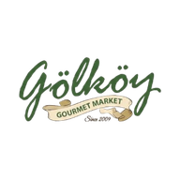
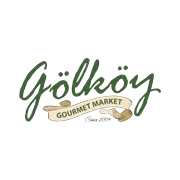
fix: React/beyaz kutu ikonlari kaldir, seffaf Golkoy Gurme koy.
Favicon ve marka ikonlari arka plansiz; site adi Golkoy Gurme; nginx icon cache kirildi.

Changed region(s): [[0.1111, 0.3056, 0.9167, 0.6944], [0.8333, 0.3889, 0.8611, 0.4167], [0.75, 0.3889, 0.7778, 0.4167]]

diff --git a/frontend/public/index.html b/frontend/public/index.html
@@ -4,13 +4,13 @@
     <meta charset="utf-8" />
     <meta name="google" content="notranslate" />
     <meta http-equiv="Content-Language" content="tr" />
-    <link rel="icon" type="image/png" sizes="48x48" href="%PUBLIC_URL%/images/favicon-48.png" />
-    <link rel="icon" type="image/png" sizes="96x96" href="%PUBLIC_URL%/images/favicon-96.png" />
-    <link rel="icon" type="image/png" sizes="32x32" href="%PUBLIC_URL%/images/favicon-32.png" />
-    <link rel="icon" type="image/png" sizes="192x192" href="%PUBLIC_URL%/images/favicon-192.png" />
-    <link rel="shortcut icon" href="%PUBLIC_URL%/images/favicon-48.png" />
-    <link rel="apple-touch-icon" href="%PUBLIC_URL%/images/apple-touch-icon.png" />
-    <link rel="icon" href="%PUBLIC_URL%/favicon.ico?v=2" sizes="any" />
+    <link rel="icon" type="image/png" sizes="48x48" href="%PUBLIC_URL%/images/favicon-48.png?v=3" />
+    <link rel="icon" type="image/png" sizes="96x96" href="%PUBLIC_URL%/images/favicon-96.png?v=3" />
+    <link rel="icon" type="image/png" sizes="32x32" href="%PUBLIC_URL%/images/favicon-32.png?v=3" />
+    <link rel="icon" type="image/png" sizes="192x192" href="%PUBLIC_URL%/images/favicon-192.png?v=3" />
+    <link rel="shortcut icon" href="%PUBLIC_URL%/images/favicon-48.png?v=3" />
+    <link rel="apple-touch-icon" href="%PUBLIC_URL%/images/apple-touch-icon.png?v=3" />
+    <link rel="icon" href="%PUBLIC_URL%/favicon.ico?v=3" sizes="any" />
     <meta name="viewport" content="width=device-width, initial-scale=1" />
     <meta name="theme-color" content="#2d5a3d" />
     <meta
@@ -18,14 +18,16 @@
       content="2009'dan beri Bodrum'un sofrasına taze, doğal ve özenle seçilmiş lezzetler. Sipariş verin; Gölköy Gurme kapınıza gelsin."
     />
     <meta property="og:type" content="website" />
-    <meta property="og:site_name" content="Gölköy Gurme Market" />
-    <meta property="og:title" content="Gölköy Gurme Market — Taze ve Doğal Ürünler" />
+    <meta property="og:site_name" content="Gölköy Gurme" />
+    <meta property="og:title" content="Gölköy Gurme — Taze ve Doğal Ürünler" />
     <meta
       property="og:description"
       content="2009'dan beri Bodrum'un sofrasına taze, doğal ve özenle seçilmiş lezzetler. Sipariş verin; Gölköy Gurme kapınıza gelsin."
     />
-    <meta property="og:image" content="https://golkoygurme.com.tr/images/og-default.jpg" />
-    <meta name="twitter:card" content="summary_large_image" />
+    <meta property="og:image" content="https://golkoygurme.com.tr/images/golkoy-header-logo.png" />
+    <meta name="twitter:card" content="summary" />
+    <meta name="twitter:title" content="Gölköy Gurme" />
+    <meta name="twitter:image" content="https://golkoygurme.com.tr/images/golkoy-header-logo.png" />
     <link
       rel="stylesheet"
       href="https://cdnjs.cloudflare.com/ajax/libs/font-awesome/6.4.0/css/all.min.css"
@@ -37,20 +39,10 @@
       rel="stylesheet"
     />
     <link rel="manifest" href="%PUBLIC_URL%/manifest.json" />
-    <title>Gölköy Gurme Market — Taze ve Doğal Ürünler</title>
+    <title>Gölköy Gurme</title>
   </head>
   <body>
     <noscript>You need to enable JavaScript to run this app.</noscript>
     <div id="root"></div>
-    <!--
-      This HTML file is a template.
-      If you open it directly in the browser, you will see an empty page.
-
-      You can add webfonts, meta tags, or analytics to this file.
-      The build step will place the bundled scripts into the <body> tag.
-
-      To begin the development, run `npm start` or `yarn start`.
-      To create a production bundle, use `npm run build` or `yarn build`.
-    -->
   </body>
 </html>

diff --git a/frontend/src/pages/Home.js b/frontend/src/pages/Home.js
@@ -431,14 +431,14 @@ export default function Home() {
     <div style={{ maxWidth: "1200px", margin: "0 auto", padding: "16px" }}>
       {/* SEO Helmet */}
       <Helmet>
-        <title>Gölköy Gurme Market — Taze ve Doğal Ürünler</title>
+        <title>Gölköy Gurme</title>
         <meta
           name="description"
           content="2009'dan beri Bodrum'un sofrasına taze, doğal ve özenle seçilmiş lezzetler. Sipariş verin; Gölköy Gurme kapınıza gelsin."
         />
         <meta
           property="og:title"
-          content="Gölköy Gurme Market — Taze ve Doğal Ürünler"
+          content="Gölköy Gurme"
         />
         <meta
           property="og:description"
@@ -446,7 +446,7 @@ export default function Home() {
         />
         <meta
           property="og:image"
-          content={`${siteUrl}/images/og-default.jpg`}
+          content={`${siteUrl}/images/golkoy-header-logo.png`}
         />
         <link
           rel="canonical"

diff --git a/frontend/scripts/generate-favicon.py b/frontend/scripts/generate-favicon.py
@@ -4,49 +4,39 @@ from pathlib import Path
 public = Path(__file__).resolve().parents[1] / "public"
 images = public / "images"
 
-src = Image.open(images / "golkoy-logo-new.png").convert("RGBA")
-pixels = src.load()
-w, h = src.size
-minx, miny, maxx, maxy = w, h, 0, 0
-for y in range(h):
-    for x in range(w):
-        r, g, b, a = pixels[x, y]
-        if a < 20:
-            continue
-        if r < 20 and g < 20 and b < 20:
-            continue
-        minx = min(minx, x)
-        miny = min(miny, y)
-        maxx = max(maxx, x)
-        maxy = max(maxy, y)
+src = Image.open(images / "golkoy-header-logo.png").convert("RGBA")
 
-pad = 8
-cropped = src.crop(
-    (max(0, minx - pad), max(0, miny - pad), min(w, maxx + 1 + pad), min(h, maxy + 1 + pad))
-)
-cropped.save(images / "golkoy-header-logo.png", format="PNG", optimize=True)
 
-cw, ch = cropped.size
-side = max(cw, ch)
-pad2 = int(side * 0.12)
-canvas = Image.new("RGBA", (side + pad2 * 2, side + pad2 * 2), (0, 0, 0, 0))
-canvas.paste(cropped, (pad2 + (side - cw) // 2, pad2 + (side - ch) // 2), cropped)
+def make_square(size, pad_ratio=0.08):
+    canvas = Image.new("RGBA", (size, size), (0, 0, 0, 0))
+    margin = max(1, int(size * pad_ratio))
+    max_w = size - 2 * margin
+    max_h = size - 2 * margin
+    ratio = min(max_w / src.width, max_h / src.height)
+    nw = max(1, int(src.width * ratio))
+    nh = max(1, int(src.height * ratio))
+    logo = src.resize((nw, nh), Image.Resampling.LANCZOS)
+    canvas.paste(logo, ((size - nw) // 2, (size - nh) // 2), logo)
+    return canvas
 
-for name, size in [("logo192.png", 192), ("logo512.png", 512)]:
-    canvas.resize((size, size), Image.Resampling.LANCZOS).save(
-        public / name, format="PNG", optimize=True
-    )
 
-canvas.resize((32, 32), Image.Resampling.LANCZOS).save(
-    images / "favicon-32.png", format="PNG", optimize=True
-)
-canvas.resize((180, 180), Image.Resampling.LANCZOS).save(
-    images / "apple-touch-icon.png", format="PNG", optimize=True
-)
-canvas.save(images / "golkoy-favicon.png", format="PNG", optimize=True)
+for size, name in [
+    (32, "favicon-32.png"),
+    (48, "favicon-48.png"),
+    (96, "favicon-96.png"),
+    (180, "apple-touch-icon.png"),
+    (192, "favicon-192.png"),
+    (192, "golkoy-favicon.png"),
+    (72, "icon-72.png"),
+    (192, "icon-192.png"),
+]:
+    make_square(size).save(images / name, format="PNG", optimize=True)
 
-ico_sizes = [(16, 16), (32, 32), (48, 48), (64, 64)]
-ico_images = [canvas.resize(s, Image.Resampling.LANCZOS) for s in ico_sizes]
-ico_images[-1].save(public / "favicon.ico", format="ICO", sizes=ico_sizes)
+make_square(192).save(public / "logo192.png", format="PNG", optimize=True)
+make_square(512, 0.1).save(public / "logo512.png", format="PNG", optimize=True)
 
-print("arka plansiz yesil Golkoy header + favicon hazir")
+sizes = [16, 32, 48, 64]
+ico_images = [make_square(s) for s in sizes]
+ico_images[-1].save(public / "favicon.ico", format="ICO", sizes=[(s, s) for s in sizes])
+
+print("seffaf Golkoy Gurme ikonlari hazir")
